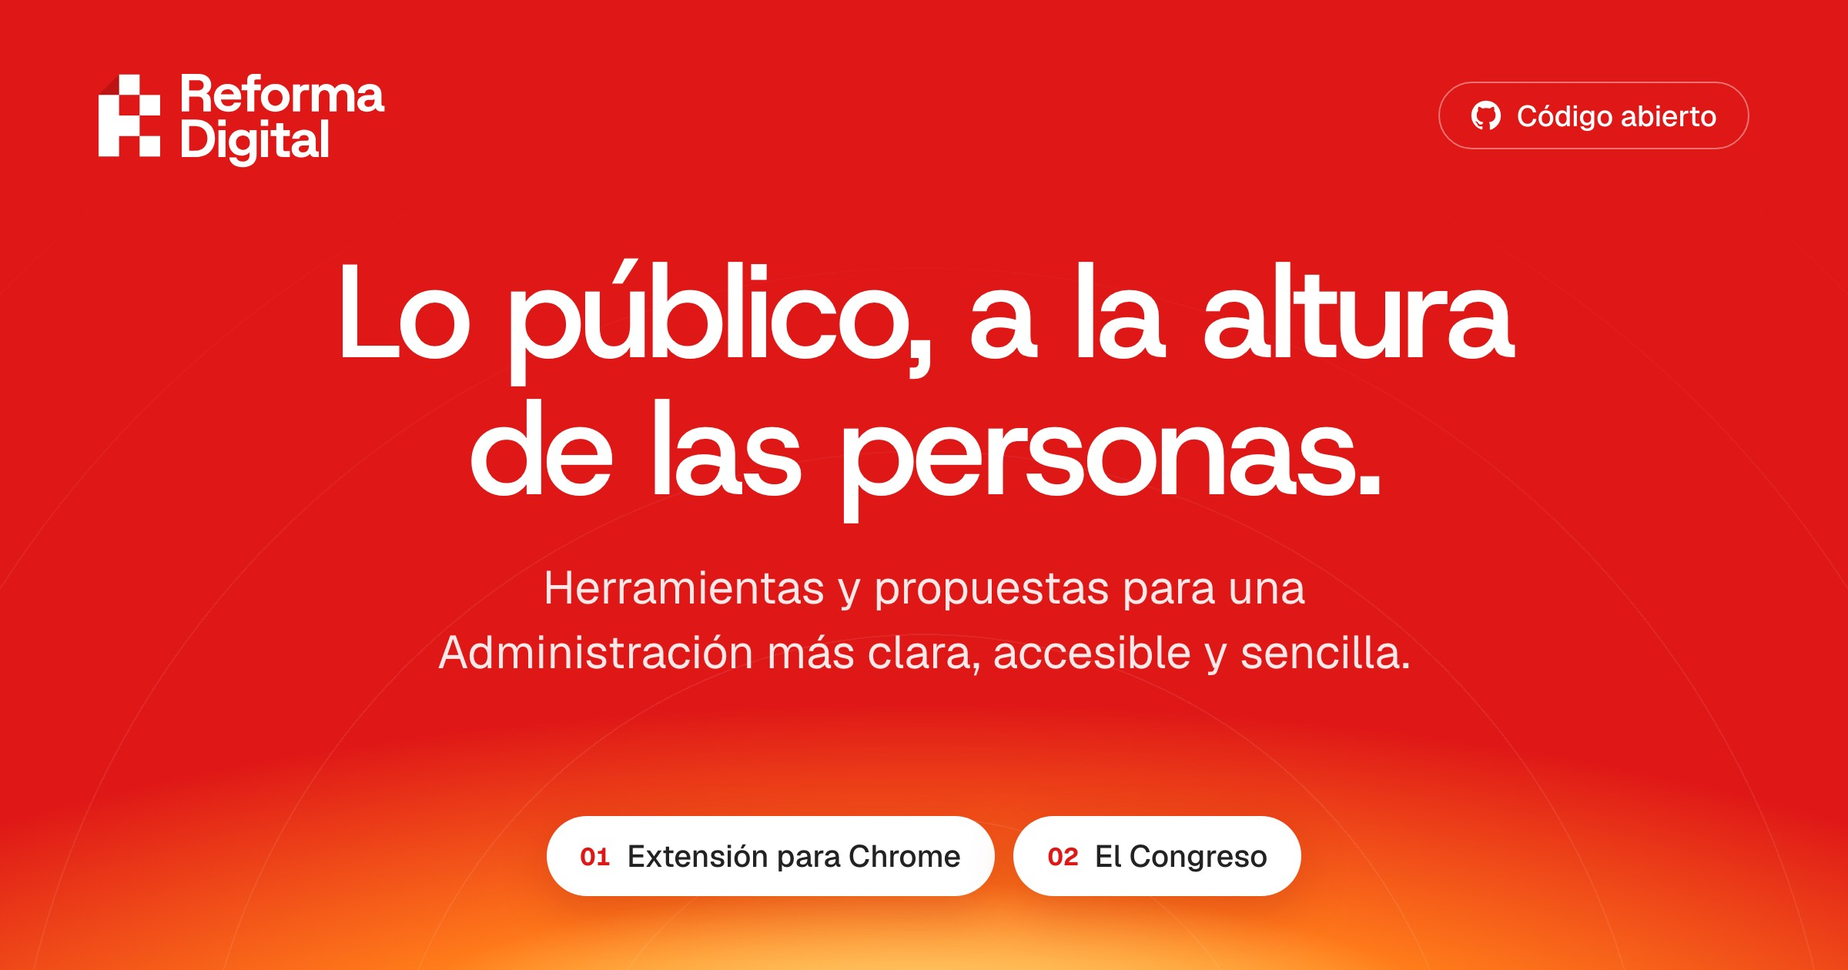
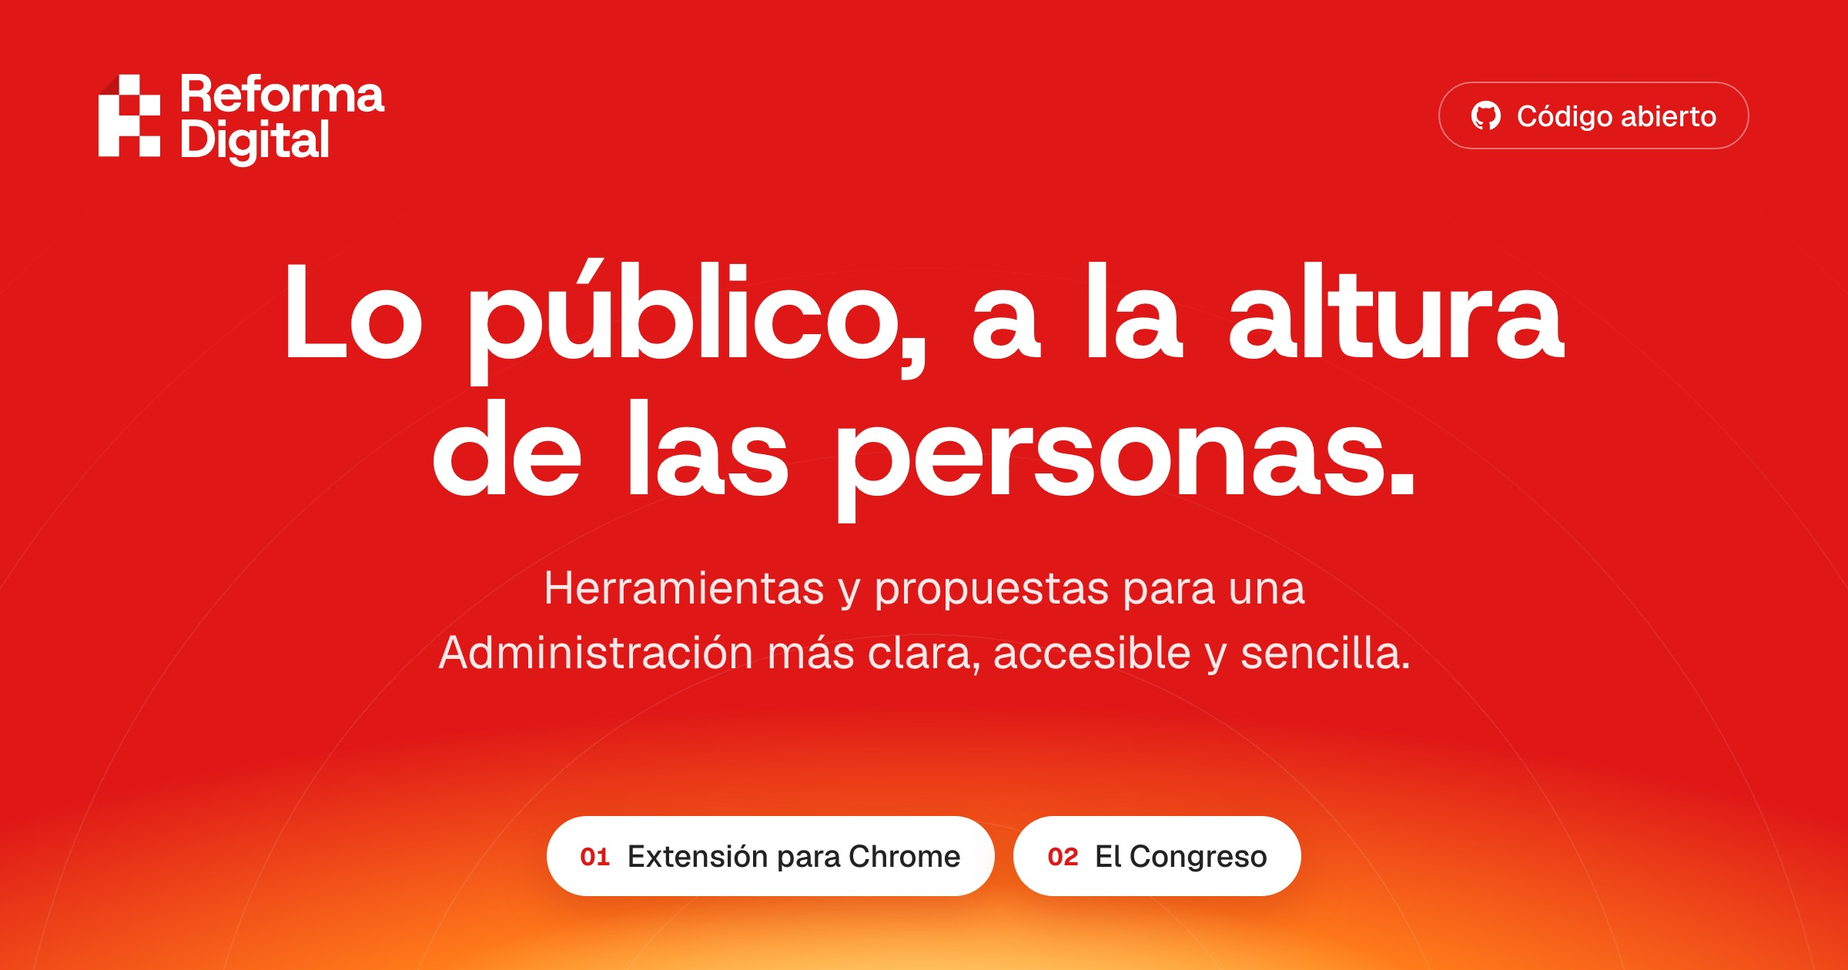
feat(design): pasa los titulares a Host Grotesk Bold sin espaciado
Pablo prefiere Bold con espaciado 0: con -0.035em las letras quedaban
demasiado juntas.

- Web y app cargan solo el grosor 700 de Host Grotesk.
- Se quita el espaciado negativo de todos los titulares de la web y la app.
- Las imágenes OG usan Bold sin espaciado y se regeneran.
- DESIGN.md recoge la norma.

Changed region(s): [[0.1562, 0.2476, 0.8438, 0.5262]]

diff --git a/apps/web/app/(search)/page.tsx b/apps/web/app/(search)/page.tsx
@@ -77,7 +77,7 @@ export default function HomePage() {
             <h1
               id="in-titulo"
               className={
-                't-titular-xl m-0 [font-family:var(--font-brand-heading)] font-normal [font-kerning:normal] text-balance [font-size:clamp(44px,_6.4vw,_92px)] [line-height:1] [letter-spacing:-0.035em]'
+                't-titular-xl m-0 [font-family:var(--font-brand-heading)] font-normal [font-kerning:normal] text-balance [font-size:clamp(44px,_6.4vw,_92px)] [line-height:1]'
               }
             >
               Lo público, a la altura de las personas.
@@ -127,7 +127,7 @@ export default function HomePage() {
             <h2
               id="in-idea"
               className={
-                't-titular-m m-0 [font-family:var(--font-brand-heading)] font-normal [font-kerning:normal] text-balance [font-size:clamp(32px,_4vw,_52px)] [line-height:1.05] [letter-spacing:-0.035em]'
+                't-titular-m m-0 [font-family:var(--font-brand-heading)] font-normal [font-kerning:normal] text-balance [font-size:clamp(32px,_4vw,_52px)] [line-height:1.05]'
               }
             >
               Que hacer un trámite no sea otro trámite.
@@ -185,7 +185,7 @@ export default function HomePage() {
                   <h2
                     id="in-proyectos-titulo"
                     className={
-                      't-titular-m m-0 [font-family:var(--font-brand-heading)] font-normal [font-kerning:normal] text-balance [font-size:clamp(32px,_4vw,_52px)] [line-height:1.05] [letter-spacing:-0.035em]'
+                      't-titular-m m-0 [font-family:var(--font-brand-heading)] font-normal [font-kerning:normal] text-balance [font-size:clamp(32px,_4vw,_52px)] [line-height:1.05]'
                     }
                   >
                     La idea, puesta en práctica.
@@ -415,7 +415,7 @@ export default function HomePage() {
           <h2
             id="in-comunidad-titulo"
             className={
-              't-titular-m m-0 [font-family:var(--font-brand-heading)] font-normal [font-kerning:normal] text-balance [font-size:clamp(32px,_4vw,_52px)] [line-height:1.05] [letter-spacing:-0.035em]'
+              't-titular-m m-0 [font-family:var(--font-brand-heading)] font-normal [font-kerning:normal] text-balance [font-size:clamp(32px,_4vw,_52px)] [line-height:1.05]'
             }
           >
             Tu experiencia puede ser el próximo cambio.
@@ -452,7 +452,7 @@ export default function HomePage() {
                 <div>
                   <h3
                     className={
-                      't-titular-s m-0 [font-family:var(--font-brand-heading)] font-normal [font-kerning:normal] text-balance [font-size:clamp(24px,_2.4vw,_30px)] [line-height:1.15] [letter-spacing:-0.035em]'
+                      't-titular-s m-0 [font-family:var(--font-brand-heading)] font-normal [font-kerning:normal] text-balance [font-size:clamp(24px,_2.4vw,_30px)] [line-height:1.15]'
                     }
                   >
                     Entra en GitHub.
@@ -483,7 +483,7 @@ export default function HomePage() {
                 <div>
                   <h3
                     className={
-                      't-titular-s m-0 [font-family:var(--font-brand-heading)] font-normal [font-kerning:normal] text-balance [font-size:clamp(24px,_2.4vw,_30px)] [line-height:1.15] [letter-spacing:-0.035em]'
+                      't-titular-s m-0 [font-family:var(--font-brand-heading)] font-normal [font-kerning:normal] text-balance [font-size:clamp(24px,_2.4vw,_30px)] [line-height:1.15]'
                     }
                   >
                     Comparte lo que mejorarías.
@@ -514,7 +514,7 @@ export default function HomePage() {
                 <div>
                   <h3
                     className={
-                      't-titular-s m-0 [font-family:var(--font-brand-heading)] font-normal [font-kerning:normal] text-balance [font-size:clamp(24px,_2.4vw,_30px)] [line-height:1.15] [letter-spacing:-0.035em]'
+                      't-titular-s m-0 [font-family:var(--font-brand-heading)] font-normal [font-kerning:normal] text-balance [font-size:clamp(24px,_2.4vw,_30px)] [line-height:1.15]'
                     }
                   >
                     Dale forma a una propuesta.

diff --git a/apps/web/components/congreso/common.tsx b/apps/web/components/congreso/common.tsx
@@ -44,7 +44,7 @@ export function Intro({
   return (
     <div
       className={
-        "cg-intro [margin:32px_0] [&_:is(h1,_h2)]:[font-size:clamp(34px,_4.2vw,_56px)] [&_:is(h1,_h2)]:[line-height:1.08] [&_:is(h1,_h2)]:[letter-spacing:-0.035em] [&_:is(h1,_h2)]:[margin:12px_0] [&:has(>_h1)]:[--celda:4px] [&:has(>_h1)]:relative [&:has(>_h1)]:isolate [&:has(>_h1)]:overflow-hidden [&:has(>_h1)]:flex [&:has(>_h1)]:flex-col [&:has(>_h1)]:[justify-content:flex-end] [&:has(>_h1)]:min-h-75 [&:has(>_h1)]:[padding:clamp(32px,_5vw,_64px)_clamp(24px,_4.5vw,_56px)] [&:has(>_h1)]:[border-radius:28px] [&:has(>_h1)]:[box-shadow:inset_0_0_0_1px_var(--border)] [&:has(>_h1)_>_*]:[max-width:min(62ch,_52%)] [&:has(>_h1)::after]:[content:''] [&:has(>_h1)::after]:absolute [&:has(>_h1)::after]:[z-index:-1] [&:has(>_h1)::after]:[right:clamp(0px,_4%,_56px)] [&:has(>_h1)::after]:[bottom:0] [&:has(>_h1)::after]:[width:calc(120_*_var(--celda))] [&:has(>_h1)::after]:[height:calc(44_*_var(--celda))] [&:has(>_h1)::after]:[background:url('/congreso/sol-disco.png')_50%_100%_/_100%_100%_no-repeat] [&:has(>_h1)::after]:[image-rendering:pixelated] [&:has(>_h1)::after]:pointer-events-none [@container(max-width:_1090px)]:[&:has(>_h1)]:[--celda:3px] [@container(max-width:_820px)]:[&:has(>_h1)]:[min-height:0] [@container(max-width:_820px)]:[&:has(>_h1)]:[padding-bottom:calc(44_*_var(--celda)_+_16px)] [@container(max-width:_820px)]:[&:has(>_h1)_>_*]:max-w-none [@container(max-width:_820px)]:[&:has(>_h1)::after]:[right:calc(50%_-_60_*_var(--celda))]"
+        "cg-intro [margin:32px_0] [&_:is(h1,_h2)]:[font-size:clamp(34px,_4.2vw,_56px)] [&_:is(h1,_h2)]:[line-height:1.08] [&_:is(h1,_h2)]:[margin:12px_0] [&:has(>_h1)]:[--celda:4px] [&:has(>_h1)]:relative [&:has(>_h1)]:isolate [&:has(>_h1)]:overflow-hidden [&:has(>_h1)]:flex [&:has(>_h1)]:flex-col [&:has(>_h1)]:[justify-content:flex-end] [&:has(>_h1)]:min-h-75 [&:has(>_h1)]:[padding:clamp(32px,_5vw,_64px)_clamp(24px,_4.5vw,_56px)] [&:has(>_h1)]:[border-radius:28px] [&:has(>_h1)]:[box-shadow:inset_0_0_0_1px_var(--border)] [&:has(>_h1)_>_*]:[max-width:min(62ch,_52%)] [&:has(>_h1)::after]:[content:''] [&:has(>_h1)::after]:absolute [&:has(>_h1)::after]:[z-index:-1] [&:has(>_h1)::after]:[right:clamp(0px,_4%,_56px)] [&:has(>_h1)::after]:[bottom:0] [&:has(>_h1)::after]:[width:calc(120_*_var(--celda))] [&:has(>_h1)::after]:[height:calc(44_*_var(--celda))] [&:has(>_h1)::after]:[background:url('/congreso/sol-disco.png')_50%_100%_/_100%_100%_no-repeat] [&:has(>_h1)::after]:[image-rendering:pixelated] [&:has(>_h1)::after]:pointer-events-none [@container(max-width:_1090px)]:[&:has(>_h1)]:[--celda:3px] [@container(max-width:_820px)]:[&:has(>_h1)]:[min-height:0] [@container(max-width:_820px)]:[&:has(>_h1)]:[padding-bottom:calc(44_*_var(--celda)_+_16px)] [@container(max-width:_820px)]:[&:has(>_h1)_>_*]:max-w-none [@container(max-width:_820px)]:[&:has(>_h1)::after]:[right:calc(50%_-_60_*_var(--celda))]"
       }
     >
       <span

diff --git a/apps/web/app/(search)/congreso/[[...path]]/page.tsx b/apps/web/app/(search)/congreso/[[...path]]/page.tsx
@@ -75,7 +75,7 @@ export default async function Page({ params, searchParams }: Props) {
       {section === '' && (
         <section
           className={
-            "cg-hero [--celda:8px] relative isolate overflow-hidden [margin:0_8px] [padding:96px_var(--page-gutter)_calc(32_*_var(--celda)_+_24px)] [border-radius:28px] [box-shadow:inset_0_0_0_1px_var(--border)] text-center [&::after]:[content:''] [&::after]:absolute [&::after]:[z-index:-1] [&::after]:[inset:auto_0_0] [&::after]:[height:calc(32_*_var(--celda))] [&::after]:[background:url('/congreso/sol-horizonte.png')_50%_100%_/_calc(360_*_var(--celda))_100%_no-repeat] [&::after]:[image-rendering:pixelated] [&::after]:pointer-events-none [&_h1]:[font-size:clamp(36px,_5vw,_72px)] [&_h1]:[line-height:1.08] [&_h1]:[letter-spacing:-0.035em] [&_h1]:[max-width:25ch] [&_h1]:[margin:24px_auto] [&_p]:[max-width:62ch] [&_p]:[margin:0_auto] [&_p]:[color:var(--text-secondary)] [&_p]:text-lg [&_[data-slot=button][data-variant=outline]]:absolute [&_[data-slot=button][data-variant=outline]]:[inset:auto_0_24px] [&_[data-slot=button][data-variant=outline]]:[width:fit-content] [&_[data-slot=button][data-variant=outline]]:[margin-inline:auto] [@media(max-width:_560px)]:[--celda:6px] [@media(max-width:_560px)]:pt-16 [@media(max-width:_560px)]:[&_p]:text-base"
+            "cg-hero [--celda:8px] relative isolate overflow-hidden [margin:0_8px] [padding:96px_var(--page-gutter)_calc(32_*_var(--celda)_+_24px)] [border-radius:28px] [box-shadow:inset_0_0_0_1px_var(--border)] text-center [&::after]:[content:''] [&::after]:absolute [&::after]:[z-index:-1] [&::after]:[inset:auto_0_0] [&::after]:[height:calc(32_*_var(--celda))] [&::after]:[background:url('/congreso/sol-horizonte.png')_50%_100%_/_calc(360_*_var(--celda))_100%_no-repeat] [&::after]:[image-rendering:pixelated] [&::after]:pointer-events-none [&_h1]:[font-size:clamp(36px,_5vw,_72px)] [&_h1]:[line-height:1.08] [&_h1]:[max-width:25ch] [&_h1]:[margin:24px_auto] [&_p]:[max-width:62ch] [&_p]:[margin:0_auto] [&_p]:[color:var(--text-secondary)] [&_p]:text-lg [&_[data-slot=button][data-variant=outline]]:absolute [&_[data-slot=button][data-variant=outline]]:[inset:auto_0_24px] [&_[data-slot=button][data-variant=outline]]:[width:fit-content] [&_[data-slot=button][data-variant=outline]]:[margin-inline:auto] [@media(max-width:_560px)]:[--celda:6px] [@media(max-width:_560px)]:pt-16 [@media(max-width:_560px)]:[&_p]:text-base"
           }
         >
           <span

diff --git a/apps/web/components/brand/info-page.tsx b/apps/web/components/brand/info-page.tsx
@@ -9,7 +9,7 @@ export function InfoPage({ children, narrow = false }: { children: ReactNode; na
       <main
         id="main"
         tabIndex={-1}
-        className={`info-pagina [max-width:var(--container-content)] [min-height:55vh] [margin-inline:auto] [padding:64px_var(--page-gutter)_80px] [&_>_h1]:[max-width:22ch] [&_>_h1]:mb-6 [&_>_h1]:[font:400_clamp(36px,_4.5vw,_60px)/1.1_var(--font-brand-heading)] [&_>_h1]:[letter-spacing:-0.035em] [&_form:has(select)]:flex [&_form:has(select)]:items-center [&_form:has(select)]:flex-wrap [&_form:has(select)]:gap-3 [&_form:has(select)]:my-6 [&_table]:w-full [&_table]:[border-collapse:collapse] [&_table]:text-sm [&_table]:my-4 [&_:is(th,_td)]:p-3 [&_:is(th,_td)]:[border-bottom:1px_solid_var(--border)] [&_:is(th,_td)]:text-left [&_:is(th,_td)]:[font-variant-numeric:tabular-nums] [@media(max-width:_600px)]:[padding-block:40px_64px]${narrow ? ' info-lectura [max-width:760px] [&_>_h2]:[margin-block:40px_16px] [&_>_h2]:[font-size:clamp(24px,_3vw,_32px)] [&_>_h2]:[line-height:1.2] [&_>_p:not(.info-entradilla)]:my-4 [&_>_p:not(.info-entradilla)]:[color:var(--text-secondary)] [&_li]:my-4 [&_li]:[color:var(--text-secondary)] [&_ol]:pl-6 [&_li]:pl-2 [&_strong]:[color:var(--foreground)]' : ''}`}
+        className={`info-pagina [max-width:var(--container-content)] [min-height:55vh] [margin-inline:auto] [padding:64px_var(--page-gutter)_80px] [&_>_h1]:[max-width:22ch] [&_>_h1]:mb-6 [&_>_h1]:[font:400_clamp(36px,_4.5vw,_60px)/1.1_var(--font-brand-heading)] [&_form:has(select)]:flex [&_form:has(select)]:items-center [&_form:has(select)]:flex-wrap [&_form:has(select)]:gap-3 [&_form:has(select)]:my-6 [&_table]:w-full [&_table]:[border-collapse:collapse] [&_table]:text-sm [&_table]:my-4 [&_:is(th,_td)]:p-3 [&_:is(th,_td)]:[border-bottom:1px_solid_var(--border)] [&_:is(th,_td)]:text-left [&_:is(th,_td)]:[font-variant-numeric:tabular-nums] [@media(max-width:_600px)]:[padding-block:40px_64px]${narrow ? ' info-lectura [max-width:760px] [&_>_h2]:[margin-block:40px_16px] [&_>_h2]:[font-size:clamp(24px,_3vw,_32px)] [&_>_h2]:[line-height:1.2] [&_>_p:not(.info-entradilla)]:my-4 [&_>_p:not(.info-entradilla)]:[color:var(--text-secondary)] [&_li]:my-4 [&_li]:[color:var(--text-secondary)] [&_ol]:pl-6 [&_li]:pl-2 [&_strong]:[color:var(--foreground)]' : ''}`}
       >
         {children}
       </main>

diff --git a/apps/web/app/layout.tsx b/apps/web/app/layout.tsx
@@ -33,7 +33,7 @@ export default function RootLayout({ children }: { children: React.ReactNode }) 
       data-bg-landing=""
       data-scroll-behavior="smooth"
     >
-      <body className="bg-background font-sans text-base leading-[1.55] text-foreground antialiased [font-synthesis:none] [:where(&)_h1]:font-heading [:where(&)_h1]:font-normal [:where(&)_h2]:font-heading [:where(&)_h2]:font-normal [:where(&)_:is(h1,h2)]:tracking-[-0.035em] [&_:is(h1,h2,h3,h4,dt)]:text-balance [&_:is(p,li,dd,figcaption,small)]:text-pretty selection:bg-brand-yellow selection:text-foreground [&_main:focus]:outline-none [&_.cg-voto-si]:[background:#237647] [&_.cg-voto-si]:[fill:#237647] [&_.cg-voto-no]:[background:var(--brand)] [&_.cg-voto-no]:[fill:var(--brand)] [&_.cg-voto-abst]:[background:var(--brand-yellow)] [&_.cg-voto-abst]:[fill:var(--brand-yellow)] [&_.cg-voto-ausente]:[background:var(--disabled)] [&_.cg-voto-ausente]:[fill:var(--disabled)]">
+      <body className="bg-background font-sans text-base leading-[1.55] text-foreground antialiased [font-synthesis:none] [:where(&)_h1]:font-heading [:where(&)_h1]:font-normal [:where(&)_h2]:font-heading [:where(&)_h2]:font-normal [&_:is(h1,h2,h3,h4,dt)]:text-balance [&_:is(p,li,dd,figcaption,small)]:text-pretty selection:bg-brand-yellow selection:text-foreground [&_main:focus]:outline-none [&_.cg-voto-si]:[background:#237647] [&_.cg-voto-si]:[fill:#237647] [&_.cg-voto-no]:[background:var(--brand)] [&_.cg-voto-no]:[fill:var(--brand)] [&_.cg-voto-abst]:[background:var(--brand-yellow)] [&_.cg-voto-abst]:[fill:var(--brand-yellow)] [&_.cg-voto-ausente]:[background:var(--disabled)] [&_.cg-voto-ausente]:[fill:var(--disabled)]">
         <a
           className={
             'sol-salto fixed top-2 left-2 [z-index:100] inline-flex items-center min-h-11 [padding:0_16px] [border-radius:12px] [background:var(--foreground)] [color:var(--background)] [font-size:15px] font-medium no-underline [transform:translateY(calc(-100%_-_16px))] [&:focus-visible]:[transform:none]'

diff --git a/apps/web/components/elecciones/report.tsx b/apps/web/components/elecciones/report.tsx
@@ -59,7 +59,7 @@ export function Cell({
 export function Stat({ value, caption }: { value: ReactNode; caption: ReactNode }) {
   return (
     <p className="m-0 grid gap-2">
-      <b className="font-heading text-[40px] leading-none font-normal tracking-[-0.035em] tabular-nums lg:text-5xl">
+      <b className="font-heading text-[40px] leading-none font-normal tabular-nums lg:text-5xl">
         {value}
       </b>
       <span className="max-w-[32ch] text-base leading-snug text-muted-foreground">{caption}</span>
@@ -165,7 +165,7 @@ export function Chapter({
           </p>
           <h2
             id={`${id}-titulo`}
-            className="m-0 font-heading text-[32px] leading-[1.1] font-normal tracking-[-0.035em] lg:text-[44px]"
+            className="m-0 font-heading text-[32px] leading-[1.1] font-normal lg:text-[44px]"
           >
             {title}
           </h2>
@@ -183,7 +183,7 @@ export function Chapter({
 export function ReportIntro({ title, children }: { title: string; children?: ReactNode }) {
   return (
     <header className="mb-10 grid items-end gap-x-12 gap-y-4 md:grid-cols-2">
-      <h1 className="m-0 font-heading text-4xl leading-[1.1] font-normal tracking-[-0.035em] lg:text-[52px]">
+      <h1 className="m-0 font-heading text-4xl leading-[1.1] font-normal lg:text-[52px]">
         {title}
       </h1>
       {children && (
@@ -204,7 +204,7 @@ export function ReportStats({ items }: { items: [number | string, string][] }) {
           className="flex-col-reverse justify-end gap-2 bg-muted p-6 ring-0 max-sm:p-5"
         >
           <dt className="text-base leading-snug text-muted-foreground">{label}</dt>
-          <dd className="m-0 font-heading text-[40px] leading-none tracking-[-0.035em] tabular-nums">
+          <dd className="m-0 font-heading text-[40px] leading-none tabular-nums">
             {typeof value === 'number'
               ? String(value).replace(/\B(?=(\d{3})+(?!\d))/g, '.')
               : value}

diff --git a/apps/web/app/(search)/equipo/page.tsx b/apps/web/app/(search)/equipo/page.tsx
@@ -57,7 +57,7 @@ export default async function CoreTeamPage() {
               <h1
                 id="ct-titulo"
                 className={
-                  't-titular-m m-0 [font-family:var(--font-brand-heading)] font-normal [font-kerning:normal] text-balance [font-size:clamp(32px,_4vw,_52px)] [line-height:1.05] [letter-spacing:-0.035em]'
+                  't-titular-m m-0 [font-family:var(--font-brand-heading)] font-normal [font-kerning:normal] text-balance [font-size:clamp(32px,_4vw,_52px)] [line-height:1.05]'
                 }
               >
                 Core team
@@ -99,7 +99,7 @@ export default async function CoreTeamPage() {
                         <div>
                           <h2
                             className={
-                              't-titular-s m-0 [font-family:var(--font-brand-heading)] font-normal [font-kerning:normal] text-balance [font-size:clamp(24px,_2.4vw,_30px)] [line-height:1.15] [letter-spacing:-0.035em]'
+                              't-titular-s m-0 [font-family:var(--font-brand-heading)] font-normal [font-kerning:normal] text-balance [font-size:clamp(24px,_2.4vw,_30px)] [line-height:1.15]'
                             }
                           >
                             {name}
@@ -136,7 +136,7 @@ export default async function CoreTeamPage() {
                 <h2
                   id="ct-contributors-titulo"
                   className={
-                    't-titular-s m-0 [font-family:var(--font-brand-heading)] font-normal [font-kerning:normal] text-balance [font-size:clamp(24px,_2.4vw,_30px)] [line-height:1.15] [letter-spacing:-0.035em]'
+                    't-titular-s m-0 [font-family:var(--font-brand-heading)] font-normal [font-kerning:normal] text-balance [font-size:clamp(24px,_2.4vw,_30px)] [line-height:1.15]'
                   }
                 >
                   Contributors

diff --git a/apps/web/app/(search)/escritorio/page.tsx b/apps/web/app/(search)/escritorio/page.tsx
@@ -43,9 +43,9 @@ const readme = `${links.repo}/tree/main/apps/desktop#readme`;
 
 const etiqueta = 'text-sm font-medium text-brand';
 const titularSeccion =
-  'm-0 font-heading font-normal text-balance text-[clamp(32px,4vw,52px)] leading-[1.05] tracking-[-0.035em]';
+  'm-0 font-heading font-normal text-balance text-[clamp(32px,4vw,52px)] leading-[1.05]';
 const titularTarjeta =
-  'm-0 font-heading font-normal text-balance text-[clamp(24px,2.4vw,30px)] leading-[1.15] tracking-[-0.035em]';
+  'm-0 font-heading font-normal text-balance text-[clamp(24px,2.4vw,30px)] leading-[1.15]';
 const entradilla = 'text-[clamp(17px,1.4vw,19px)] leading-[1.6] text-pretty';
 const seccion = 'mx-auto max-w-(--container-content) px-(--page-gutter)';
 
@@ -82,7 +82,7 @@ export default function DesktopPage() {
           <p className={cn(etiqueta, 'mb-5')}>App de escritorio para macOS, Windows y Linux</p>
           <h1
             id="es-titulo"
-            className="mx-auto mb-6 max-w-[28ch] font-heading text-[clamp(36px,5vw,60px)] leading-[1.08] font-normal tracking-[-0.035em] text-balance"
+            className="mx-auto mb-6 max-w-[28ch] font-heading text-[clamp(36px,5vw,60px)] leading-[1.08] font-normal text-balance"
           >
             Haz tus trámites sin perderte en la sede electrónica.
           </h1>

diff --git a/apps/web/og/template.html b/apps/web/og/template.html
@@ -5,7 +5,7 @@
     <title>Reforma Digital</title>
     <link
       rel="stylesheet"
-      href="https://fonts.googleapis.com/css2?family=Host+Grotesk:wght@500&family=Geist:wght@400;500;600;700&family=Geist+Mono:wght@400;500&display=block"
+      href="https://fonts.googleapis.com/css2?family=Host+Grotesk:wght@700&family=Geist:wght@400;500;600;700&family=Geist+Mono:wght@400;500&display=block"
     />
     <style>
       :root {
@@ -144,9 +144,8 @@
       h1 {
         font-family: var(--font-titular);
         font-size: 74px;
-        font-weight: 500;
+        font-weight: 700;
         line-height: 1.02;
-        letter-spacing: -0.035em;
         text-wrap: balance;
       }
       .texto {
@@ -223,7 +222,6 @@
         max-width: 900px;
         font-size: 86px;
         line-height: 1.04;
-        letter-spacing: -0.035em;
       }
       [data-escena='portada'] .texto {
         max-width: 44ch;

diff --git a/apps/web/components/brand/fuentes.ts b/apps/web/components/brand/fuentes.ts
@@ -3,10 +3,10 @@ import { Geist, Geist_Mono, Host_Grotesk } from 'next/font/google';
 const geist = Geist({ subsets: ['latin'], variable: '--font-geist' });
 // Sin preload: solo la usan etiquetas y datos pequeños, y no todas las páginas los muestran.
 const geistMono = Geist_Mono({ subsets: ['latin'], variable: '--font-geist-mono', preload: false });
-// Solo Medium: los titulares no usan otro grosor, aunque pidan `font-normal`.
+// Solo Bold: los titulares no usan otro grosor, aunque pidan `font-normal`.
 const hostGrotesk = Host_Grotesk({
   subsets: ['latin'],
-  weight: '500',
+  weight: '700',
   variable: '--font-host-grotesk',
 });
 

diff --git a/apps/web/components/brand/mobile-menu.tsx b/apps/web/components/brand/mobile-menu.tsx
@@ -57,7 +57,7 @@ export function MobileMenu({ links }: { links: readonly MenuLink[] }) {
                 href={href}
                 aria-current={current ? 'page' : undefined}
                 onClick={close}
-                className="flex min-h-[76px] items-center justify-between border-b border-foreground/15 font-heading text-4xl leading-tight tracking-[-0.035em] no-underline"
+                className="flex min-h-[76px] items-center justify-between border-b border-foreground/15 font-heading text-4xl leading-tight no-underline"
               >
                 {text}
                 <Icon name="derecha" size={18} />

diff --git a/apps/web/components/elecciones/home.tsx b/apps/web/components/elecciones/home.tsx
@@ -415,7 +415,7 @@ export async function ElectionsHome() {
           <div className="grid gap-8">
             <div className="grid justify-items-start gap-4">
               <Badge className="font-mono uppercase">{current.label}</Badge>
-              <h1 className="m-0 max-w-[18ch] font-heading text-4xl leading-[1.08] font-normal tracking-[-0.035em] lg:text-[56px]">
+              <h1 className="m-0 max-w-[18ch] font-heading text-4xl leading-[1.08] font-normal lg:text-[56px]">
                 {current.title}
               </h1>
               <p className="m-0 max-w-[58ch] text-lg leading-relaxed text-muted-foreground">
